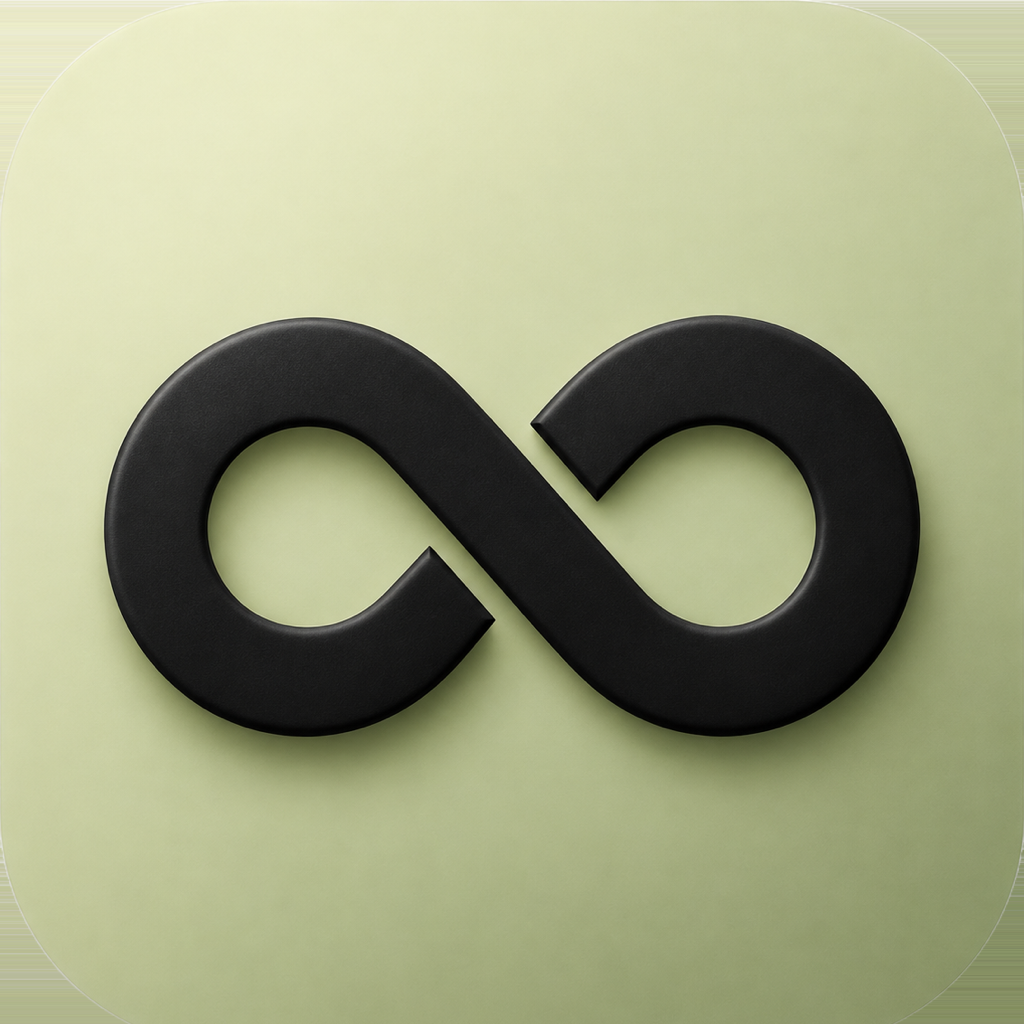
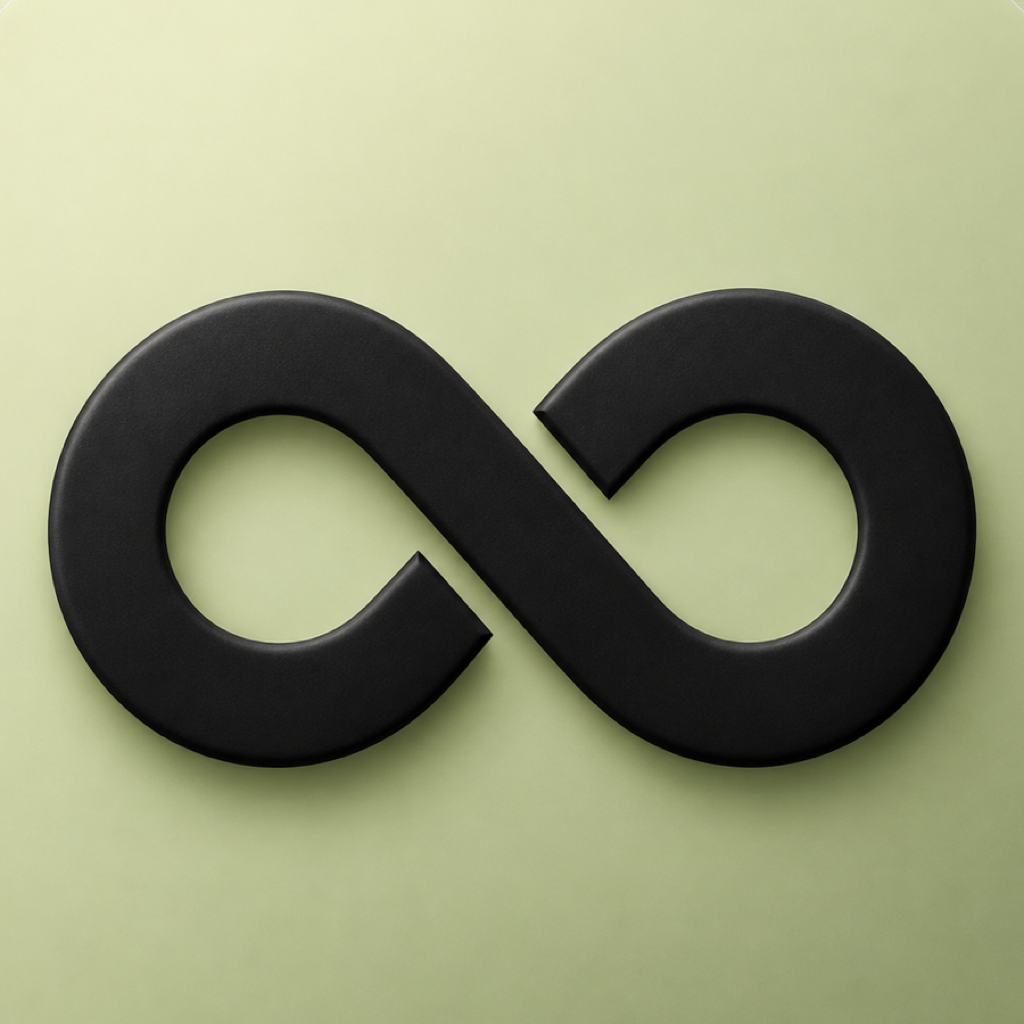
Corrections mineures : natif, erreurs réseau, icône, expo-updates, bouton Apple
- Bouton Apple : retour au bouton personnalisé (« Continuer avec Apple »,
  même police et même corps que le bouton Google) ; le composant natif
  suivait la langue de l'appareil et sa propre taille de texte.
- Page catégorie : distances depuis la position du profil (navigator.geolocation
  n'existe pas en React Native).
- Chat : geste de retour réactivé, bouton retour qui revient au lieu d'empiler.
- Marges hautes réelles (zone sûre) sur les écrans admin, statistiques pro,
  mes signalements et le scanner QR ; barre d'état claire dans le scanner.
- SafeAreaView de react-native-safe-area-context dans les 7 écrans de listes.
- Journaux log/info/debug/warn coupés en production.
- Loader ∞ hors « interactions » (ne retarde plus InteractionManager).
- Vignette de l'écran paiement en 160 px ; API mediaTypes à jour ; cartes
  avec rendu hors ligne ; rafraîchissement de session lié à AppState.
- États « Impossible de charger, réessayer » sur Réservations et Mes annonces.
- Icône 1024 plein cadre (coins pré-arrondis retirés).
- expo-updates (runtimeVersion appVersion, canaux preview / production).

Claude-Session: https://claude.ai/code/session_01MU4JTEyYWLJbbKqBg66UiV

diff --git a/components/AppleButton.tsx b/components/AppleButton.tsx
@@ -1,15 +1,20 @@
 import { useEffect, useState } from 'react';
-import { Platform, StyleSheet } from 'react-native';
+import { Platform, StyleSheet, Text, TouchableOpacity, View } from 'react-native';
+import { Ionicons } from '@expo/vector-icons';
 import * as AppleAuthentication from 'expo-apple-authentication';
+import { Colors } from '@/constants/colors';
 
 interface AppleButtonProps {
   onPress: () => void;
 }
 
-// Bouton natif Sign in with Apple (conforme aux Human Interface Guidelines).
-// Le libellé suit la langue de l'appareil (« Continuer avec Apple » en
-// français) grâce à la localisation fr du bundle. Le contour blanc s'accorde
-// au bouton Google juste en dessous. Masqué hors iOS (voir AppleButton.web.tsx).
+// Bouton personnalisé, autorisé par les Human Interface Guidelines « Sign in
+// with Apple » (logo Apple + « Continuer avec Apple », fond blanc, contour).
+// Le composant natif AppleAuthenticationButton impose la police système et sa
+// propre taille de texte, et son libellé suit la langue de l'appareil : sur un
+// iPhone en anglais il affiche « Continue with Apple » à côté d'un bouton
+// Google en français. Ici : même hauteur, même police et même corps (15) que
+// GoogleButton, libellé toujours en français.
 export default function AppleButton({ onPress }: AppleButtonProps) {
   const [available, setAvailable] = useState(false);
 
@@ -22,19 +27,45 @@ export default function AppleButton({ onPress }: AppleButtonProps) {
   if (!available) return null;
 
   return (
-    <AppleAuthentication.AppleAuthenticationButton
-      buttonType={AppleAuthentication.AppleAuthenticationButtonType.CONTINUE}
-      buttonStyle={AppleAuthentication.AppleAuthenticationButtonStyle.WHITE_OUTLINE}
-      cornerRadius={27}
+    <TouchableOpacity
       style={styles.btn}
       onPress={onPress}
-    />
+      activeOpacity={0.85}
+      accessibilityRole="button"
+      accessibilityLabel="Continuer avec Apple"
+    >
+      <View style={styles.iconWrap}>
+        <Ionicons name="logo-apple" size={22} color="#000" />
+      </View>
+      <Text style={styles.btnText}>Continuer avec Apple</Text>
+    </TouchableOpacity>
   );
 }
 
 const styles = StyleSheet.create({
   btn: {
-    width: '100%',
+    flexDirection: 'row',
+    alignItems: 'center',
+    justifyContent: 'center',
+    backgroundColor: '#fff',
+    borderRadius: 999,
+    borderWidth: 1.5,
+    borderColor: Colors.border,
     height: 54,
+    gap: 10,
+  },
+  iconWrap: {
+    width: 22,
+    height: 22,
+    alignItems: 'center',
+    justifyContent: 'center',
+    // Le logo Apple est visuellement centré un peu bas ; on le remonte.
+    marginTop: -2,
+  },
+  btnText: {
+    fontSize: 15,
+    fontFamily: 'Inter-SemiBold',
+    color: Colors.text,
+    letterSpacing: 0.1,
   },
 });

diff --git a/app/category/[id].tsx b/app/category/[id].tsx
@@ -3,7 +3,6 @@ import {
   View,
   Text,
   StyleSheet,
-  SafeAreaView,
   FlatList,
   TouchableOpacity,
   Animated,
@@ -12,12 +11,14 @@ import {
   TextInput,
   ScrollView,
 } from 'react-native';
+import { SafeAreaView } from 'react-native-safe-area-context';
 import { CategoryIcon } from '@/components/CategoryIcon';
 import { categoryTheme } from '@/constants/categories';
 import { useLocalSearchParams, useRouter } from 'expo-router';
 import { Ionicons } from '@expo/vector-icons';
 import { Colors } from '@/constants/colors';
 import { supabase } from '@/lib/supabase';
+import { useAuth } from '@/contexts/AuthContext';
 import ListingCard from '@/components/explore/ListingCard';
 import SkeletonCard from '@/components/explore/SkeletonCard';
 import CategoryEmptyState from '@/components/explore/CategoryEmptyState';
@@ -57,6 +58,7 @@ const SORT_LABEL: Record<SortKey, string> = {
 export default function CategoryScreen() {
   const router = useRouter();
   const { id, name, value } = useLocalSearchParams<{ id: string; name: string; value?: string }>();
+  const { profile } = useAuth();
   const catTheme = categoryTheme(value);
   const { isDesktop, isTablet } = useResponsive();
   const numColumns = isDesktop ? 4 : isTablet ? 3 : 2;
@@ -89,14 +91,13 @@ export default function CategoryScreen() {
     ]).start();
   }, []);
 
+  // Position du profil (déjà connue) plutôt que la géolocalisation navigateur,
+  // inexistante en React Native : les distances s'affichent aussi sur iPhone.
   useEffect(() => {
-    if (typeof navigator !== 'undefined' && navigator.geolocation) {
-      navigator.geolocation.getCurrentPosition(
-        (pos) => setUserCoords({ lat: pos.coords.latitude, lng: pos.coords.longitude }),
-        () => {}
-      );
-    }
-  }, []);
+    const lat = profile?.location_data?.lat;
+    const lng = profile?.location_data?.lng;
+    if (typeof lat === 'number' && typeof lng === 'number') setUserCoords({ lat, lng });
+  }, [profile?.location_data?.lat, profile?.location_data?.lng]);
 
   const fetchListings = useCallback(async () => {
     setLoading(true);

diff --git a/app/(tabs)/mes-annonces.tsx b/app/(tabs)/mes-annonces.tsx
@@ -20,6 +20,7 @@ import { getOptimizedImageUrl } from '@/lib/imageUrl';
 import { router, useFocusEffect } from 'expo-router';
 import { Ionicons } from '@expo/vector-icons';
 import { supabase } from '@/lib/supabase';
+import LoadError from '@/components/LoadError';
 import { postSystemMessage } from '@/lib/postSystemMessage';
 import { Colors } from '@/constants/colors';
 import { useSafeAreaInsets } from 'react-native-safe-area-context';
@@ -248,6 +249,7 @@ type TabKey = 'active' | 'inactive';
 export default function MesAnnoncesScreen() {
   const [listings, setListings] = useState<Listing[]>([]);
   const [loading, setLoading] = useState(true);
+  const [loadError, setLoadError] = useState(false);
   const [refreshing, setRefreshing] = useState(false);
   const [togglingId, setTogglingId] = useState<string | null>(null);
   const [deleteTarget, setDeleteTarget] = useState<Listing | null>(null);
@@ -288,17 +290,19 @@ export default function MesAnnoncesScreen() {
     const { data: { user } } = await supabase.auth.getUser();
     if (!user) { setLoading(false); return; }
 
-    const { data } = await supabase
+    const { data, error } = await supabase
       .from('listings')
       .select('id, name, price, photos_url, category_name, is_active, created_at, views_count, saves_count')
       .eq('owner_id', user.id)
       .order('created_at', { ascending: false });
 
     if (!data) {
+      setLoadError(!!error);
       setLoading(false);
       setRefreshing(false);
       return;
     }
+    setLoadError(false);
 
     setListings(
       data.map((l: any) => ({
@@ -528,7 +532,8 @@ export default function MesAnnoncesScreen() {
           </View>
         )}
 
-        {listings.length === 0 && (
+        {loadError && listings.length === 0 && <LoadError onRetry={fetchListings} />}
+        {!loadError && listings.length === 0 && (
           <View style={styles.emptyState}>
             <EmptyIllustration name="box" size={128} />
             <Text style={styles.emptyTitle}>Votre première annonce vous attend</Text>

diff --git a/app/(tabs)/reservations.tsx b/app/(tabs)/reservations.tsx
@@ -21,6 +21,7 @@ import { useUnread } from '@/contexts/UnreadContext';
 import { Colors } from '@/constants/colors';
 import { useSafeAreaInsets } from 'react-native-safe-area-context';
 import { supabase } from '@/lib/supabase';
+import LoadError from '@/components/LoadError';
 import { useAuth } from '@/contexts/AuthContext';
 import { router, useFocusEffect } from 'expo-router';
 import { SkeletonConversationRow } from '@/components/Skeleton';
@@ -440,6 +441,7 @@ export default function MessagesScreen() {
   const { refresh: refreshUnread } = useUnread();
   const [conversations, setConversations] = useState<ConversationItem[]>([]);
   const [loading, setLoading] = useState(true);
+  const [loadError, setLoadError] = useState(false);
   // stripeReady removed: now computed per-item as ownerStripeReady in buildConversationItem
   const insets = useSafeAreaInsets();
   const [deleteModalId, setDeleteModalId] = useState<string | null>(null);
@@ -628,7 +630,8 @@ export default function MessagesScreen() {
       `)
       .or(`requester_id.eq.${user.id},owner_id.eq.${user.id}`);
 
-    if (error || !data) { setLoading(false); return; }
+    if (error || !data) { setLoadError(!!error); setLoading(false); return; }
+    setLoadError(false);
 
     const ownerIdsToCheck = Array.from(new Set(
       data
@@ -777,6 +780,8 @@ export default function MessagesScreen() {
         <View>
           {Array.from({ length: 5 }).map((_, i) => <SkeletonConversationRow key={i} />)}
         </View>
+      ) : loadError && conversations.length === 0 ? (
+        <LoadError onRetry={fetchConversations} />
       ) : conversations.length === 0 ? (
         <View style={styles.emptyState}>
           <EmptyIllustration name="chat" size={128} />

diff --git a/app/chat/[id].tsx b/app/chat/[id].tsx
@@ -698,7 +698,7 @@ export default function ChatScreen() {
       return;
     }
     const result = await ImagePicker.launchImageLibraryAsync({
-      mediaTypes: ImagePicker.MediaTypeOptions.Images,
+      mediaTypes: ['images'],
       quality: 0.85,
       allowsEditing: false,
       allowsMultipleSelection: true,
@@ -716,7 +716,7 @@ export default function ChatScreen() {
       return;
     }
     const result = await ImagePicker.launchCameraAsync({
-      mediaTypes: ImagePicker.MediaTypeOptions.Images,
+      mediaTypes: ['images'],
       quality: 0.85,
       allowsEditing: false,
     });
@@ -1143,7 +1143,11 @@ export default function ChatScreen() {
       <View style={[styles.topBar, { paddingTop: isDesktop ? 20 : insets.top + 10 }]}>
         {/* Row 1 : back · [avatar + username centré] · spacer */}
         <View style={styles.topBarRow1}>
-          <TouchableOpacity onPress={() => router.push('/(tabs)/reservations' as any)} style={styles.backBtn} activeOpacity={0.8}>
+          <TouchableOpacity
+            onPress={() => (router.canGoBack() ? router.back() : router.replace('/(tabs)/reservations' as any))}
+            style={styles.backBtn}
+            activeOpacity={0.8}
+          >
             <Ionicons name="arrow-back-outline" size={20} color={Colors.text} />
           </TouchableOpacity>
           <TouchableOpacity

diff --git a/app/_layout.tsx b/app/_layout.tsx
@@ -5,6 +5,15 @@ import { View, ActivityIndicator, StyleSheet, Platform } from 'react-native';
 import LoadingBlock from '@/components/LoadingBlock';
 import SuspendedScreen from '@/components/SuspendedScreen';
 import ConnectionErrorScreen from '@/components/ConnectionErrorScreen';
+
+// Production : pas de journaux verbeux (thread JS, aucune donnée dans les logs
+// de l'appareil). console.error reste actif pour le diagnostic.
+if (!__DEV__) {
+  console.log = () => {};
+  console.info = () => {};
+  console.debug = () => {};
+  console.warn = () => {};
+}
 import { useFonts } from 'expo-font';
 import {
   PlusJakartaSans_400Regular,
@@ -294,7 +303,7 @@ function RootNavigator() {
         <Stack.Screen name="listing/[id]" />
         <Stack.Screen name="owner/[id]" />
         <Stack.Screen name="edit-address" />
-        <Stack.Screen name="chat/[id]" options={{ gestureEnabled: false }} />
+        <Stack.Screen name="chat/[id]" />
         <Stack.Screen name="favorites" />
         <Stack.Screen name="account-settings" />
         <Stack.Screen name="deals" />

diff --git a/components/handover/HandoverQRScanner.native.tsx b/components/handover/HandoverQRScanner.native.tsx
@@ -10,6 +10,8 @@ import {
   Platform,
 } from 'react-native';
 import { Ionicons } from '@expo/vector-icons';
+import { StatusBar } from 'expo-status-bar';
+import { initialWindowMetrics } from 'react-native-safe-area-context';
 import { CameraView, useCameraPermissions } from 'expo-camera';
 import HandoverSuccessAnimation from './HandoverSuccessAnimation';
 import { supabase } from '@/lib/supabase';
@@ -91,6 +93,7 @@ export default function HandoverQRScanner({
 
   return (
     <Modal visible={visible} animationType="slide" onRequestClose={onClose}>
+      <StatusBar style="light" />
       <View style={styles.root}>
         <View style={styles.header}>
           <Text style={styles.title}>{title}</Text>
@@ -192,7 +195,7 @@ const styles = StyleSheet.create({
   root: {
     flex: 1,
     backgroundColor: '#0F172A',
-    paddingTop: Platform.OS === 'ios' ? 60 : 30,
+    paddingTop: (initialWindowMetrics?.insets.top ?? 44) + 12,
   },
   header: {
     flexDirection: 'row',

diff --git a/components/screens/PaymentScreen.native.tsx b/components/screens/PaymentScreen.native.tsx
@@ -15,6 +15,7 @@ import { useLocalSearchParams, router } from 'expo-router';
 import { useSafeAreaInsets } from 'react-native-safe-area-context';
 import { Ionicons } from '@expo/vector-icons';
 import { supabase } from '@/lib/supabase';
+import { getOptimizedImageUrl } from '@/lib/imageUrl';
 import { translatePaymentError } from '@/lib/paymentErrors';
 import { Colors } from '@/constants/colors';
 
@@ -197,7 +198,7 @@ export default function PaymentScreen() {
   const feePercent = (booking.listing?.renter_fee_percent ?? 7) / 100;
   const serviceFee = Math.round(booking.total_price * feePercent * 100) / 100;
   const totalNow = Math.round((booking.total_price + serviceFee) * 100) / 100;
-  const thumb = booking.listing?.photos_url?.[0] ?? null;
+  const thumb = getOptimizedImageUrl(booking.listing?.photos_url?.[0] ?? null, { width: 160, height: 160, resize: 'cover' });
 
   return (
     <View style={[styles.root, { paddingTop: insets.top }]}>

diff --git a/contexts/AuthContext.tsx b/contexts/AuthContext.tsx
@@ -1,5 +1,5 @@
 import { createContext, useContext, useEffect, useState, ReactNode } from 'react';
-import { Platform } from 'react-native';
+import { Platform, AppState } from 'react-native';
 import { Session, User } from '@supabase/supabase-js';
 import { supabase } from '@/lib/supabase';
 import * as WebBrowser from 'expo-web-browser';
@@ -130,6 +130,17 @@ export function AuthProvider({ children }: { children: ReactNode }) {
     });
 
     return () => subscription.unsubscribe();
+  }, []);
+
+  useEffect(() => {
+    if (Platform.OS === 'web') return;
+    // Recommandation Supabase pour React Native : le timer de rafraîchissement du
+    // jeton ne tourne qu'au premier plan.
+    const sub = AppState.addEventListener('change', (state) => {
+      if (state === 'active') supabase.auth.startAutoRefresh();
+      else supabase.auth.stopAutoRefresh();
+    });
+    return () => sub.remove();
   }, []);
 
   useEffect(() => {

diff --git a/app/admin/_screens/TransactionsScreen.tsx b/app/admin/_screens/TransactionsScreen.tsx
@@ -16,6 +16,9 @@ import { supabase } from '@/lib/supabase';
 import { Colors } from '@/constants/colors';
 import StatusBadge from '@/components/admin/StatusBadge';
 import { fetchAdminProfileEmails } from '@/lib/adminEmails';
+import { initialWindowMetrics } from 'react-native-safe-area-context';
+// Marge sous l'encoche / Dynamic Island (56 px fixes mordaient sur les iPhone récents).
+const HEADER_TOP = Platform.OS === 'web' ? 24 : (initialWindowMetrics?.insets.top ?? 47) + 8;
 
 const SUPABASE_URL = process.env.EXPO_PUBLIC_SUPABASE_URL!;
 const ANON_KEY = process.env.EXPO_PUBLIC_SUPABASE_ANON_KEY!;
@@ -663,7 +666,7 @@ const styles = StyleSheet.create({
     flexDirection: 'row',
     alignItems: 'center',
     paddingHorizontal: 20,
-    paddingTop: Platform.OS === 'web' ? 24 : 56,
+    paddingTop: HEADER_TOP,
     paddingBottom: 16,
     backgroundColor: Colors.background,
   },

diff --git a/app/admin/_screens/DisputesScreen.tsx b/app/admin/_screens/DisputesScreen.tsx
@@ -16,6 +16,9 @@ import { useAuth } from '@/contexts/AuthContext';
 import { Colors } from '@/constants/colors';
 import StatusBadge from '@/components/admin/StatusBadge';
 import { fetchAdminProfileEmails } from '@/lib/adminEmails';
+import { initialWindowMetrics } from 'react-native-safe-area-context';
+// Marge sous l'encoche / Dynamic Island (56 px fixes mordaient sur les iPhone récents).
+const HEADER_TOP = Platform.OS === 'web' ? 24 : (initialWindowMetrics?.insets.top ?? 47) + 8;
 
 const SUPABASE_URL = process.env.EXPO_PUBLIC_SUPABASE_URL!;
 
@@ -304,7 +307,7 @@ const styles = StyleSheet.create({
     flexDirection: 'row',
     alignItems: 'center',
     paddingHorizontal: 20,
-    paddingTop: Platform.OS === 'web' ? 24 : 56,
+    paddingTop: HEADER_TOP,
     paddingBottom: 16,
     backgroundColor: Colors.background,
   },

diff --git a/components/listing/PickupMap.tsx b/components/listing/PickupMap.tsx
@@ -1,4 +1,4 @@
-import { Platform, View, StyleSheet } from 'react-native';
+import { Platform, View, StyleSheet, Text } from 'react-native';
 import { Colors } from '@/constants/colors';
 
 const GOOGLE_MAPS_KEY = process.env.EXPO_PUBLIC_GOOGLE_MAPS_KEY as string;
@@ -52,6 +52,11 @@ export default function PickupMap({ lat, lng }: PickupMapProps) {
         pointerEvents="none"
         source={{ html: getMapHtml(lat, lng), baseUrl: 'https://app.louetonbien.fr/' }}
         originWhitelist={['*']}
+        renderError={() => (
+          <View style={[styles.webview, { alignItems: 'center', justifyContent: 'center', backgroundColor: '#EEE' }]}>
+            <Text style={{ fontFamily: 'Inter-Regular', fontSize: 13, color: '#8C8C84' }}>Carte indisponible</Text>
+          </View>
+        )}
       />
     </View>
   );
